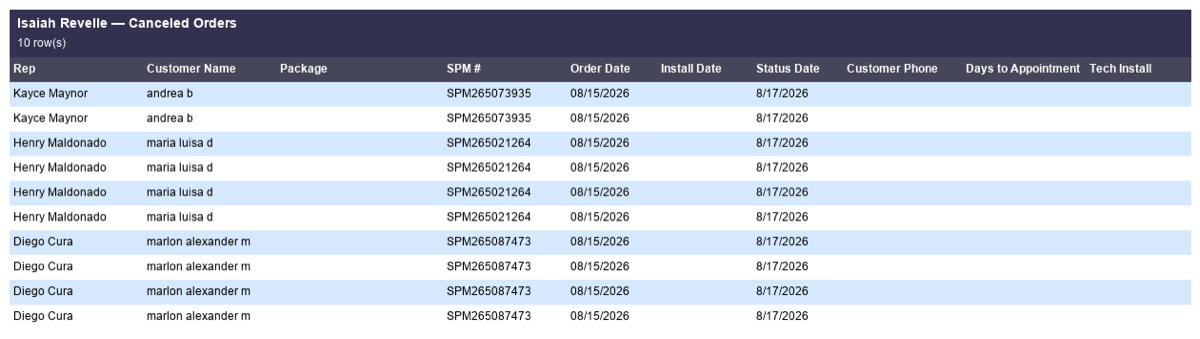
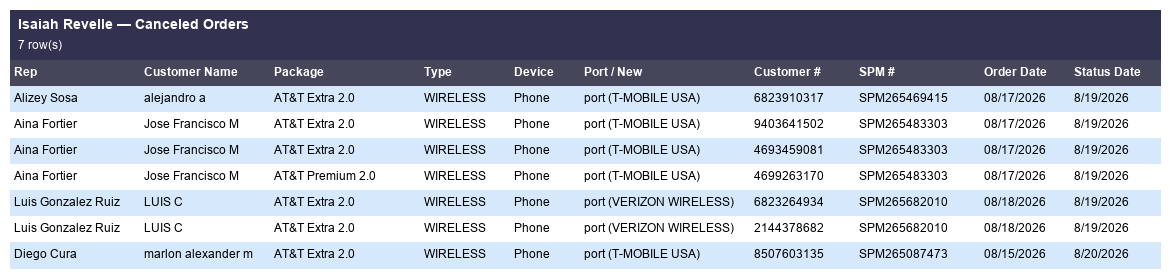
nds cancels/disconnects: show WHAT was canceled, deduped (raf's loom)
- raf 8/22: the board had empty package/phone columns and repeated
  rows. root causes: the renderer never mapped the wireless columns
  the NDS export carries, and the crosstab emits one row per MEASURE
  (unit count + sales) per line — nothing deduped them
- boards now show Package, Type (WIRELESS), Device (Phone/Tablet),
  Port/New with the ported-from carrier, and the customer's number
  (spe.TN) — per line, deduped on (SPM, TN, status date, customer);
  distinct lines of one order stay, each with its own number
- house canceled_orders.render gains an optional column-set param;
  the fiber board's default layout is byte-identical
- applies to every NDS-enrolled office (isaiah, drew, all future)

diff --git a/automations/office_metrics/nds_orderlog.py b/automations/office_metrics/nds_orderlog.py
@@ -264,7 +264,16 @@ def _render_status_orders(owner, header, rows, target, out_dir, keyword, label, 
     odate_i = _find(header, "sp.order date", "order date")
     sdate_i = _find(header, "status date")
     spm_i = _find(header, "sp.spm number", "spm number", "spm")
-    phone_i = _find(header, "customer phone", "phone")
+    # Wireless columns (Raf's Loom, 2026-08-22: the board must say WHAT was
+    # canceled — package, phone vs tablet, port vs new + from where, and the
+    # customer's number — like the order log does). All present in the NDS-SN
+    # ORDERLOG export.
+    pkg_i = _find(header, "package")
+    ptype_i = _find(header, "product type (broken out)", "product type")
+    dev_i = _find(header, "spe.wireless type", "wireless type")
+    tntype_i = _find(header, "spe.tn type", "tn type")
+    carrier_i = _find(header, "spe.port carrier", "port carrier")
+    tn_i = _find(header, "spe.tn", "customer phone", "phone")
     # Only NEWLY canceled/disconnected orders — those whose Status Date (when the
     # order reached that status) is within the last _RECENT_STATUS_DAYS. The pull
     # window is two weeks (for Rep Activations), so without this the board would
@@ -292,14 +301,48 @@ def _render_status_orders(owner, header, rows, target, out_dir, keyword, label, 
 
     hits = [r for r in rows
             if keyword in _cell(r, st_i).lower() and _recent(r)]
+    # The crosstab emits one row PER MEASURE ("Unit Count" + "Sales (All)")
+    # per line — the duplicate rows in Raf's Loom. Dedupe on what identifies a
+    # LINE (SPM + its TN + status date); distinct lines of one order stay,
+    # each with its own number/type.
+    seen: set = set()
+    lines = []
+    for r in hits:
+        k = (_cell(r, spm_i), _cell(r, tn_i), _cell(r, sdate_i),
+             _cell(r, cust_i))
+        if k in seen:
+            continue
+        seen.add(k)
+        lines.append(r)
+
+    def _port(r) -> str:
+        t = _cell(r, tntype_i).lower()
+        if t == "port":
+            # carrier names run long ("VERIZON WIRELESS-TSI…") — keep the
+            # recognizable head so the column never bleeds into its neighbor.
+            car = _cell(r, carrier_i).split(",")[0].strip()[:16]
+            return f"port ({car})" if car else "port"
+        return t or ""
+
     house_rows = [{
         "Rep": _cell(r, rep_i), "Customer Name": _cell(r, cust_i),
+        "Package": _cell(r, pkg_i), "Type": _cell(r, ptype_i),
+        "Device": _cell(r, dev_i), "Port / New": _port(r),
+        "Customer #": _cell(r, tn_i),
         "SPM #": _cell(r, spm_i), "Order Date": _cell(r, odate_i),
-        "Status Date": _cell(r, sdate_i), "Customer Phone": _cell(r, phone_i),
-    } for r in hits]
+        "Status Date": _cell(r, sdate_i),
+    } for r in lines]
+    # Wireless layout — what was canceled and whose number it was, per line.
+    nds_cols = [
+        ("Rep", 130), ("Customer Name", 130), ("Package", 150),
+        ("Type", 90), ("Device", 70), ("Port / New", 170),
+        ("Customer #", 105), ("SPM #", 125), ("Order Date", 90),
+        ("Status Date", 90),
+    ]
     out = out_dir / f"nds_{slug}_{target.isoformat()}.png"
     core = label.split(" ", 1)[1] if " " in label else label
-    return _house_render(house_rows, out, title=f"{owner} — {core}"), len(hits)
+    return (_house_render(house_rows, out, title=f"{owner} — {core}",
+                          cols=nds_cols), len(lines))
 
 
 def run(owner: str, board: str, *, target: dt.date | None = None,

diff --git a/automations/canceled_orders/render.py b/automations/canceled_orders/render.py
@@ -40,8 +40,12 @@ def _font(size: int, bold: bool = False):
 
 
 def render(rows: List[Dict[str, str]], out_path: Path,
-           title: str = "Local Office — Canceled Orders") -> Path:
-    cols = COLS
+           title: str = "Local Office — Canceled Orders",
+           cols: "List[tuple] | None" = None) -> Path:
+    """`cols` overrides the column set (label, min-width) — the NDS wireless
+    boards pass their own (device/port/TN columns instead of the internet-only
+    install fields). Default None = the house internet layout, unchanged."""
+    cols = cols or COLS
     total_w = sum(w for _, w in cols) + PAD * 2
     h = HEADER_H + ROW_H * (max(len(rows), 1) + 1) + PAD * 2
 
